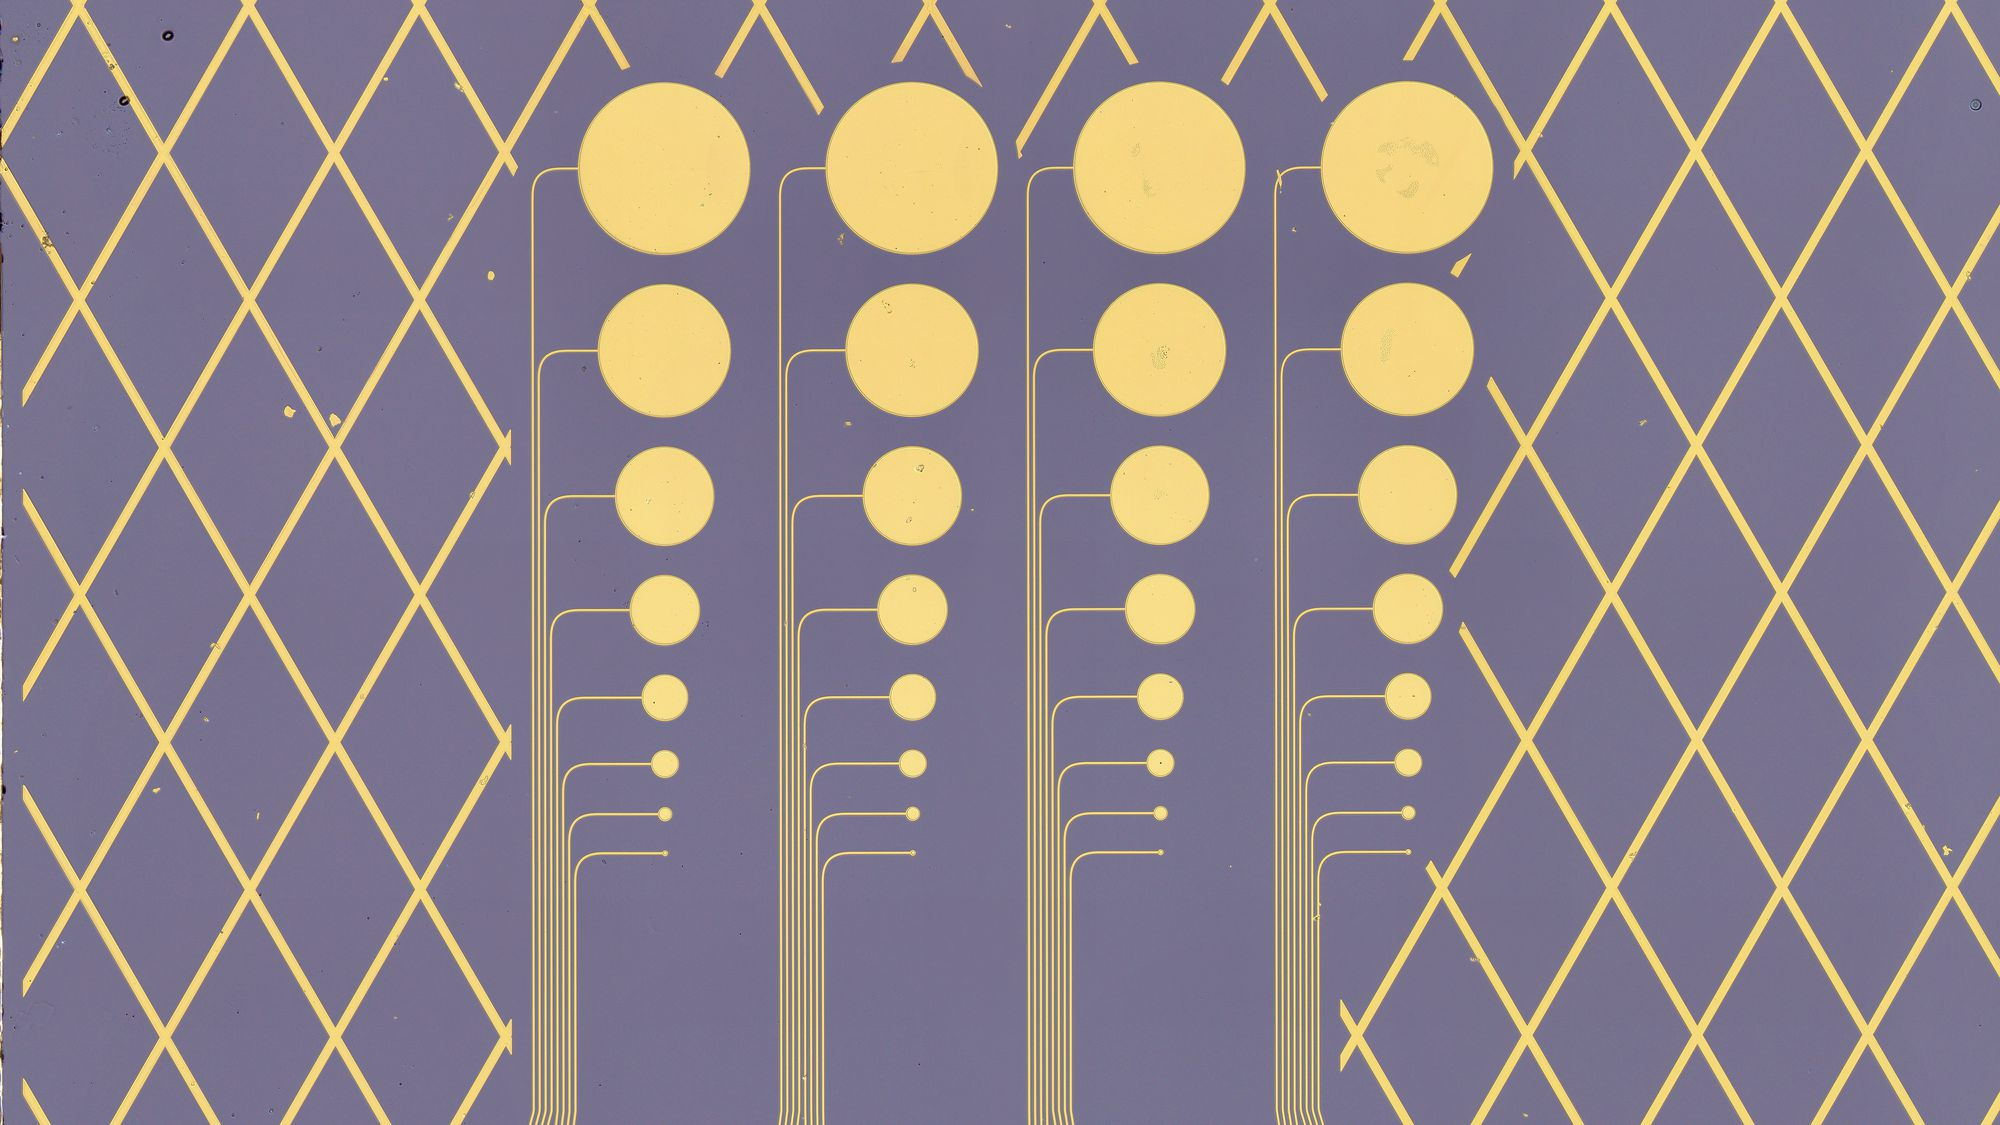
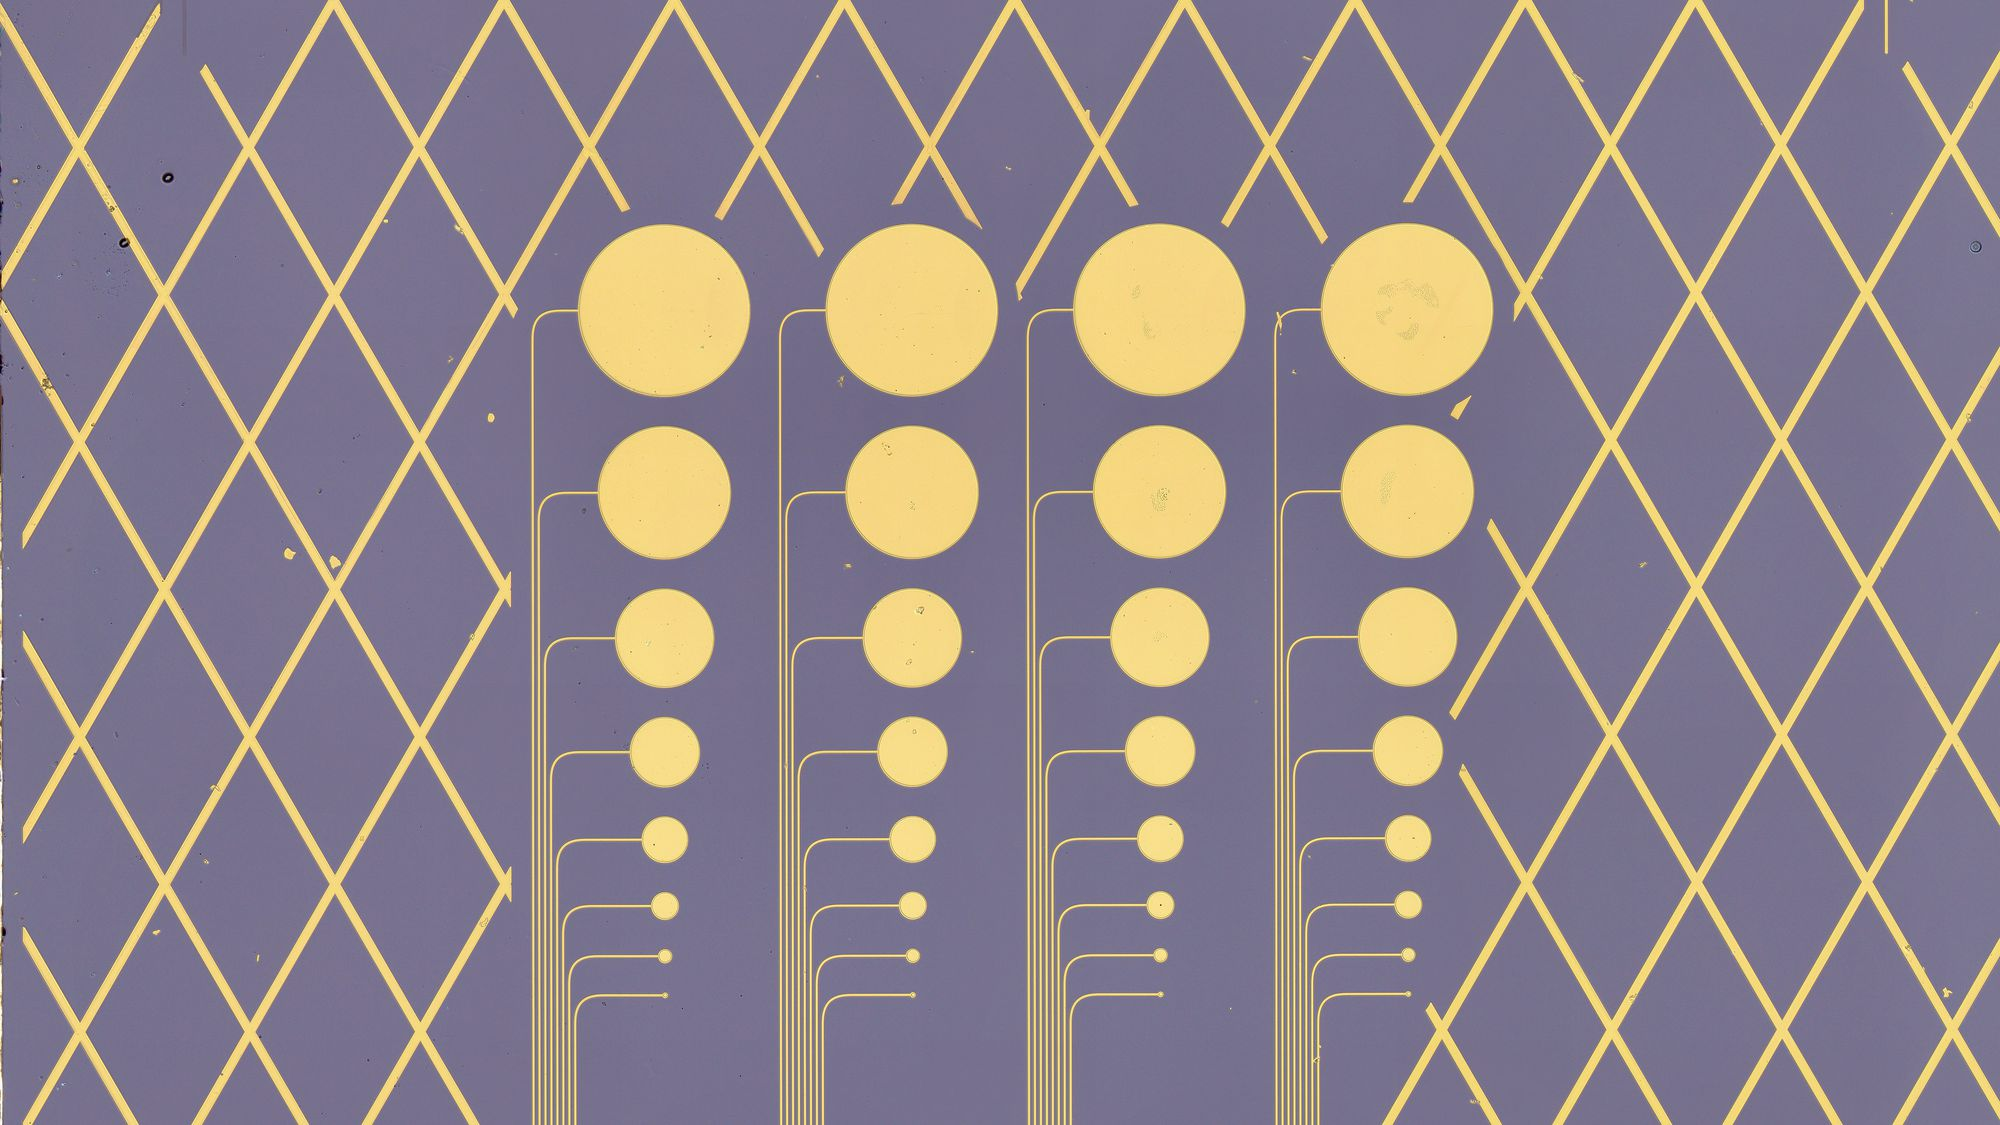
Hero: test-chip still re-cropped with headroom and framed lower so the electrode pads sit fully in view

diff --git a/index.html b/index.html
@@ -5,7 +5,7 @@ permalink: /
 ---
 <section class="hero">
   <video class="hero-bg" src="{{ '/assets/video/giwaxs-p3meeet.mp4' | relative_url }}" poster="{{ '/assets/img/research/giwaxs-poster.jpg' | relative_url }}" width="1030" height="1064" autoplay muted loop playsinline preload="auto" aria-hidden="true" tabindex="-1"></video>
-  <img class="hero-slide" src="{{ '/assets/img/hero/test-chip.jpg' | relative_url }}" alt="" width="2000" height="1125" decoding="async" fetchpriority="low">
+  <img class="hero-slide" src="{{ '/assets/img/hero/test-chip.jpg' | relative_url }}" alt="" width="2000" height="1125" decoding="async" fetchpriority="low" style="object-position: 50% 22%">
   <img class="hero-slide" src="{{ '/assets/img/hero/device-on-collagen.jpg' | relative_url }}" alt="" width="2000" height="1125" decoding="async" fetchpriority="low">
   <div class="wrap">
     <img class="mark" src="{{ '/assets/img/monogram-white.svg' | relative_url }}" alt="" width="150" height="182">
